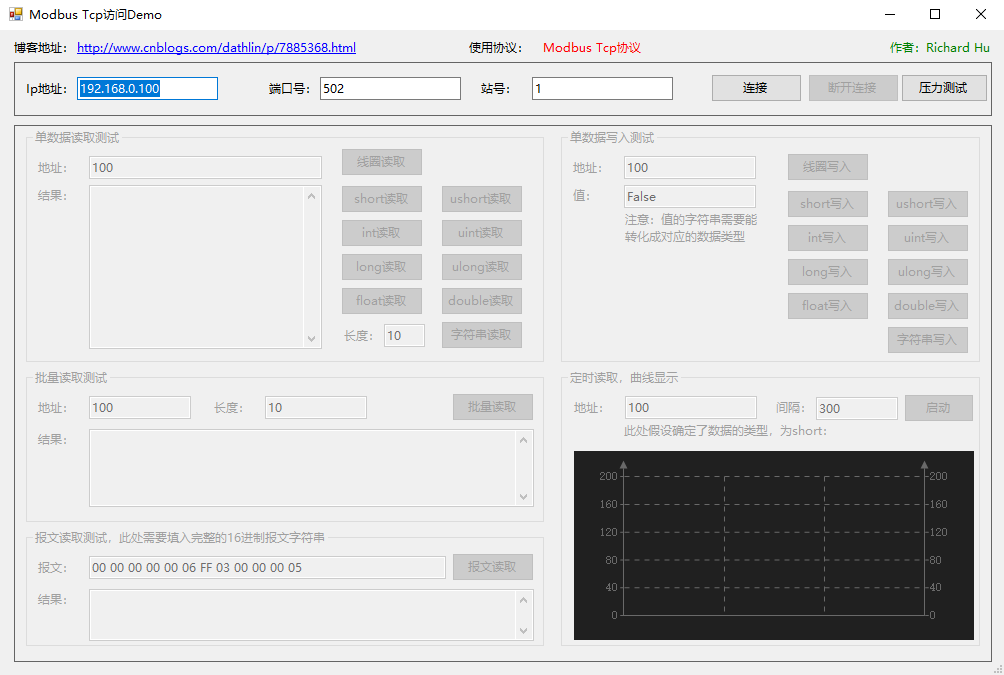
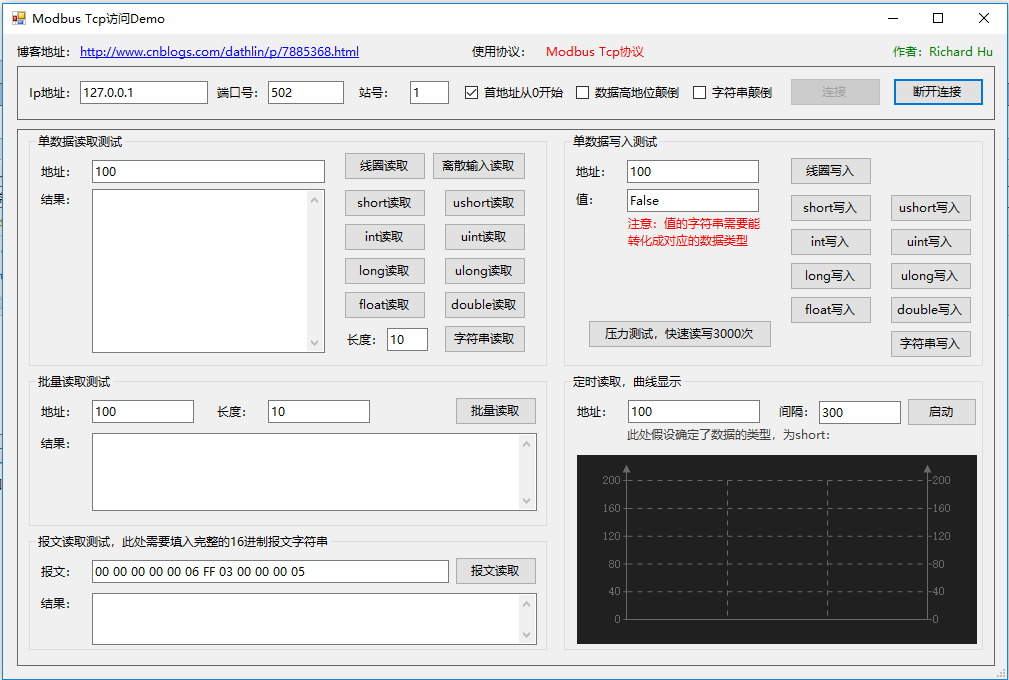
update readme

diff --git a/README.md b/README.md
@@ -152,7 +152,7 @@ Using Fins-tcp protocol
 ![Picture](https://raw.githubusercontent.com/dathlin/HslCommunication/master/imgs/Omron.png)
 
 ## Modbus-Tcp 客户端服务器 [ Modbus-tcp Communication ]
-Client, using read/write coils and register
+Client, using read/write coils and register, read discrete input , read register input
 ![Picture](https://raw.githubusercontent.com/dathlin/HslCommunication/master/imgs/Modbus1.png)
 
 Server, you can build your own modbus-tcp server easily
